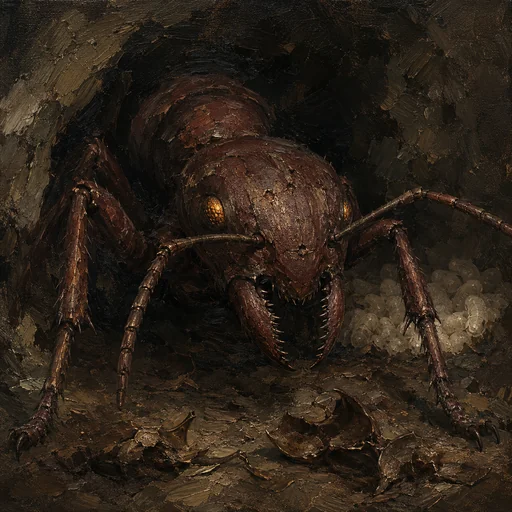
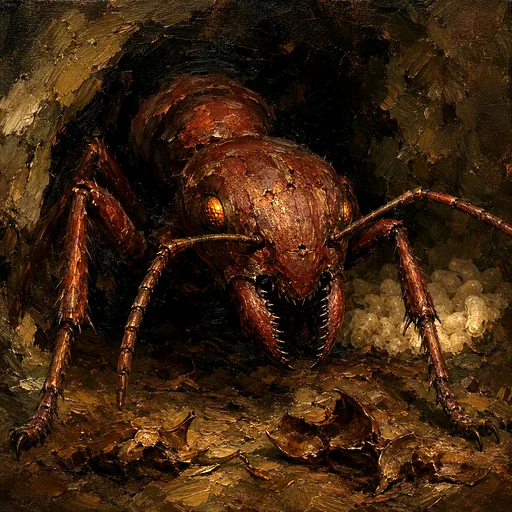
Put the contrast pass in the pipeline and re-cut the tokens
make-token.py cuts a 512 token from a full-size portrait and applies
the adjustment that makes it survive being drawn at one grid square:
contrast to pull the subject away from the background, saturation so
each creature keeps a dominant colour through the shrink, a lift out
of the murk, and a vignette that darkens the corners the circle crop
eats anyway.

All three tokens re-cut from their portraits. The squatter now reads
cool against his sky, the acolyte warm against the fire, and the ant
red-brown against dark - which is the actual fix, since telling two
tokens apart is a question of dominant colour rather than detail.

It is a rescue and not a substitute. It cannot separate two portraits
painted in the same palette, so the generation-time rule in PROMPTS.md
still governs new art; this just stops the ones we have being three
brown circles.

diff --git a/fg/art/make-token.py b/fg/art/make-token.py
@@ -1,0 +1,76 @@
+"""Cut a 512 token from a full-size portrait, and make it survive being drawn small.
+
+    python fg/art/make-token.py portraits/labyrinth-squatter.webp
+    python fg/art/make-token.py portraits/*.webp
+
+Writes tokens/<same name>.webp at 512 x 512, quality 85.
+
+WHY THE ADJUSTMENT. The archive's house look is muted earth - browns, rust, ash-grey,
+low-key light - and that is right for a plate somebody studies. Fantasy Grounds crops a
+token to a circle and draws it at about one grid square on a screen shared across a
+table, and at that size the same painting collapses into an indistinguishable brown
+square. Two NPCs painted this way become the same token.
+
+So a token is not just a resized portrait. It gets:
+
+  contrast   pulls the subject's values apart from the background's
+  saturation gives each creature a dominant colour that survives the shrink
+  brightness lifts the whole thing out of the murk FG's map view sinks it into
+  vignette   darkens the outer ring, which is where the circle crop bites anyway,
+             so the head reads as a shape rather than as part of the scenery
+
+This is a rescue, not a substitute for generating the art brighter in the first place -
+it cannot separate two portraits that were painted in the same palette. See
+PROMPTS.md for the rule new token art is generated against.
+"""
+import glob
+import os
+import sys
+from PIL import Image, ImageDraw, ImageEnhance, ImageFilter
+
+SIZE = 512
+CONTRAST = 1.55
+SATURATION = 1.45
+BRIGHTNESS = 1.12
+
+
+def tokenize(src):
+    im = Image.open(src).convert('RGB')
+    im = ImageEnhance.Contrast(im).enhance(CONTRAST)
+    im = ImageEnhance.Color(im).enhance(SATURATION)
+    im = ImageEnhance.Brightness(im).enhance(BRIGHTNESS)
+
+    # Darken the outside. The ellipse is wider than the frame and sits high, so the
+    # falloff bites the corners and the bottom - never the head, which sits upper-centre
+    # in every one of these portraits by design.
+    w, h = im.size
+    vig = Image.new('L', (w, h), 0)
+    ImageDraw.Draw(vig).ellipse([-w * 0.30, -h * 0.34, w * 1.30, h * 1.16], fill=255)
+    vig = vig.filter(ImageFilter.GaussianBlur(w * 0.12))
+    im = Image.composite(im, Image.new('RGB', (w, h), (18, 16, 15)), vig)
+
+    return im.resize((SIZE, SIZE), Image.LANCZOS)
+
+
+def main(args):
+    here = os.path.dirname(os.path.abspath(__file__))
+    paths = []
+    for a in args:
+        p = a if os.path.isabs(a) else os.path.join(here, a)
+        paths.extend(sorted(glob.glob(p)) or [p])
+    if not paths:
+        print(__doc__)
+        return 1
+    for src in paths:
+        if not os.path.exists(src):
+            print('missing:', src)
+            continue
+        out = os.path.join(here, 'tokens', os.path.splitext(os.path.basename(src))[0] + '.webp')
+        os.makedirs(os.path.dirname(out), exist_ok=True)
+        tokenize(src).save(out, 'WEBP', quality=85, method=6)
+        print('wrote %s  %d bytes' % (os.path.relpath(out, here), os.path.getsize(out)))
+    return 0
+
+
+if __name__ == '__main__':
+    sys.exit(main(sys.argv[1:]))

diff --git a/fg/art/PROMPTS.md b/fg/art/PROMPTS.md
@@ -31,6 +31,17 @@ keeps the table legible and the chronicle's look intact, instead of compromising
 
 ---
 
+Tokens are cut from the full-size portrait by
+[`make-token.py`](make-token.py), which applies that adjustment — contrast, saturation, a lift,
+and a vignette that darkens the corners the circle crop eats anyway — and writes the 512 WebP:
+
+```
+python fg/art/make-token.py "portraits/*.webp"
+```
+
+It is a rescue and not a substitute: it cannot separate two portraits painted in the same
+palette, which is why the rule above applies at generation time.
+
 Save every render as a **512 × 512 WebP at quality 85** into `fg/art/tokens/` — square painted
 portrait busts with an environmental background, used by FG for both `<picture>` and `<token>`.
 FG crops them to a circle on the map, so **keep the head well clear of the edges and out of the
